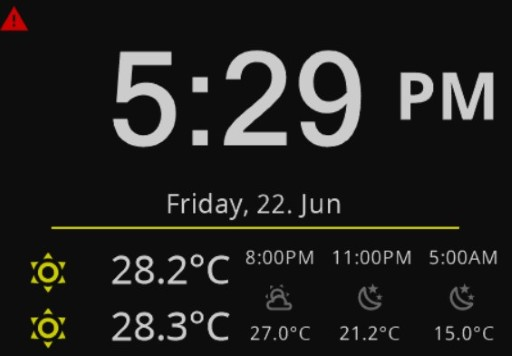
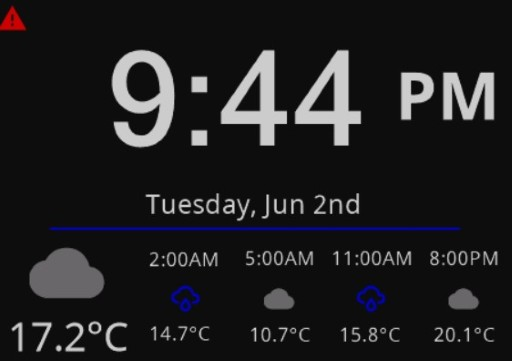
Fix date in screensaver. Improve cardChard

diff --git a/nspanel/nspanel_cards.py b/nspanel/nspanel_cards.py
@@ -747,7 +747,7 @@ class NSPanelCardChart(NSPanelCardWithSlots):
             #calculate delta time in this bar
             bar_average+=val["state"]
             i+=1
-            delta = (val["time"] - bar_start_time).seconds
+            delta = (val["time"] - bar_start_time).total_seconds()
             if val["time"] > bar_start_time and delta > bar_period:
                 while delta > bar_period:
                     chart_bars.append(str(int(((bar_average/i)-min_val)/scale)))
@@ -798,7 +798,7 @@ class NSPanelCardChart(NSPanelCardWithSlots):
         total_time = 0
         for val in values:
             if time is not None:
-                delta = (val["time"] - time).seconds
+                delta = (val["time"] - time).total_seconds()
                 if state in state_dict:
                     state_dict[state] += delta
                 else:
@@ -814,6 +814,9 @@ class NSPanelCardChart(NSPanelCardWithSlots):
             state=val["state"]
 
         y_axis_label = self.name_from_dt(start_time)+"-"+self.name_from_dt(end_time)
+        if total_time == 0:
+            self.log.error("Total time is 0 for string chart '%s'.", self.name)
+            return "~65535~No data!~~~"
         val_payload = ""
         for state, time in state_dict.items():
             val_payload += '~' + str(round(time/total_time*self.MAX_Y)) + '^' + translate.key( "openhabStates", state ) + ':' + str(round(time/total_time*100)) + '%'
@@ -1008,7 +1011,7 @@ class NSPanelpopupNotify(NSPanelCardWithSlots):
         """
         self.log.debug("Leave popup notify card '%s'.", self.name)
         #check if any notification card is active.
-        if params[0] not in ["notifyAction", "bexit"]:
+        if params[0] not in ["notifyAction", "bExit"]:
             self.log.warning("Unknown event '%s' for popup notify card.", params[0])
             return
         if len(params) > 1 and params[1] in ["yes", "no"]:

diff --git a/nspanel/nspanels.py b/nspanel/nspanels.py
@@ -29,7 +29,7 @@ import sys
 import yaml
 
 # project specific imports:
-from nspanel.nspanel_globals import name_to_16bit_color
+from nspanel.nspanel_globals import name_to_16bit_color, int2ordinal
 from nspanel.nspanel_cards import NSPanelCard, NSPanelCardScreenSaver
 from nspanel.nspanel_card_slots import NsPanelCardSlotOhItem, NSPanelCardSlot
 from skin import skin
@@ -546,10 +546,14 @@ class NSPanel(): #pylint: disable=too-many-instance-attributes, too-many-public-
         now = datetime.now()
         try:
             #try to build date
-            current_date = f"{NSPanel.CMD_DATE}{translate.weekdays(now.weekday())}, {now.day}. {translate.months_short(now.month)}"
+            weekday= translate.weekdays(now.weekday())
+            month = translate.months_short(now.month)
+            day = now.day
+            ordinal =  int2ordinal(day)
+            current_date = "date~" + translate.date_templ().format(weekday=weekday, month=month, day=day, ordinal=ordinal)
         except (KeyError, RuntimeError, ValueError) as error:
-            self.log.error("Error while creating date string: %s", error)
-            current_date = f"Day {now.day}, Weekday {now.weekday()}, Month {now.month}"
+            self.log.warning("Error building date string for screensaver: %s. Fallback to default format.", error)
+            current_date = "date~" + f"Day {now.day}, Weekday {now.weekday()}, Month {now.month}"
 
         if current_date != self.last_date:
             if self.send_panel_cmd( current_date):

diff --git a/nspanel/nspanel_globals.py b/nspanel/nspanel_globals.py
@@ -33,6 +33,16 @@ LOGGER = FLOGGER.create_log_handler("Helpers")
 #
 # some helper functions
 #
+
+def int2ordinal(n: int):
+    """Convert an integer into its ordinal representation"""
+    if 11 <= (n % 100) <= 13:
+        suffix = 'th'
+    else:
+        suffix = ['th', 'st', 'nd', 'rd', 'th'][min(n % 10, 4)]
+    return str(n) + suffix
+
+
 def map_state_pannel2oh(state_type, state):
     """
     maps the state value of the ns panel to an openhab state value

diff --git a/lang/translate.py b/lang/translate.py
@@ -69,6 +69,12 @@ def weather_time_templ():
     """
     return TRANSLATE_DB["weatherTime"]
 
+def date_templ():
+    """
+    return date template
+    """
+    return TRANSLATE_DB["date"]
+
 def key(section, entry):
     """
     Returns one entry form the data base

diff --git a/readme.md b/readme.md
@@ -1255,7 +1255,7 @@ Notify card Example:
 ```yaml
   - name: PlantAlarm #free name of the state card.
     type: popupNotify
-    fontSize: 1
+    fontSize: small
     title: Pflanzen giessen!
     slots: #2 slots must be defined in a notify popup
       - class: ohItem #switch to activate the notification
@@ -1265,7 +1265,7 @@ Notify card Example:
         iconColor: green
       - class: ohItem #Notification text
         type: text
-        item: String_PlantWarning ```
+        item: String_PlantWarning
 ```
 
 ![image](doc/ExampleNotifyPlant.jpg)
